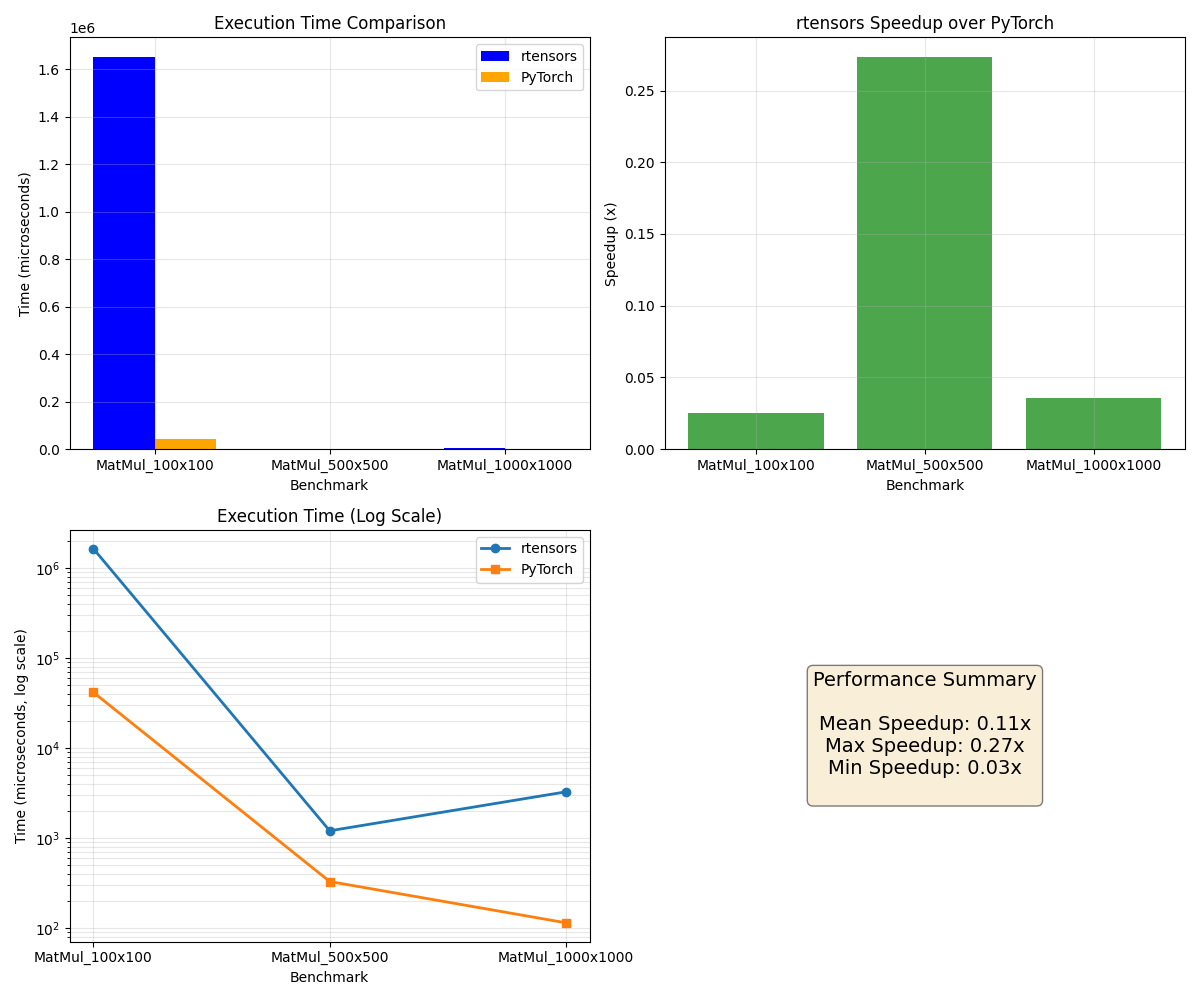
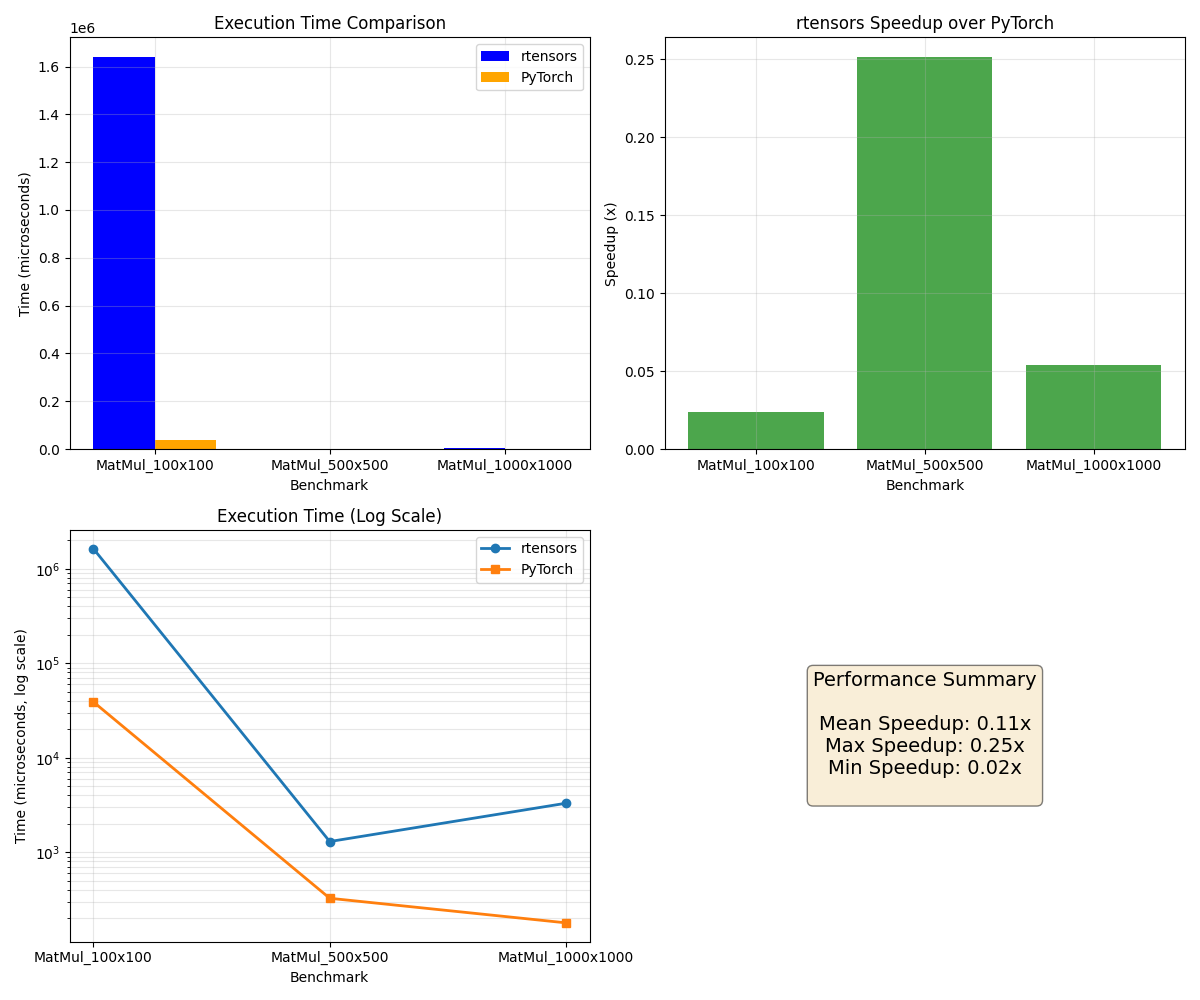
benchmark and interface

diff --git a/libs/benchmark/src/main.rs b/libs/benchmark/src/main.rs
@@ -320,6 +320,7 @@ fn cuda_matmul_benchmark() -> Result<(), pyo3::PyErr> {
         {
             let kwargs = PyDict::new(py);
             kwargs.set_item("device", "cuda")?;
+            kwargs.set_item("dtype", torch.getattr("float32")?)?;
             let a = torch.call_method("ones", ((100, 100),), Some(&kwargs))?;
             let b = torch.call_method("ones", ((100, 100),), Some(&kwargs))?;
             let _result = torch.call_method1("matmul", (a, b))?;
@@ -339,6 +340,7 @@ fn cuda_matmul_benchmark() -> Result<(), pyo3::PyErr> {
         {
             let kwargs = PyDict::new(py);
             kwargs.set_item("device", "cuda")?;
+            kwargs.set_item("dtype", torch.getattr("float32")?)?;
             let a = torch.call_method("ones", ((500, 500),), Some(&kwargs))?;
             let b = torch.call_method("ones", ((500, 500),), Some(&kwargs))?;
             let _result = torch.call_method1("matmul", (a, b))?;
@@ -358,6 +360,7 @@ fn cuda_matmul_benchmark() -> Result<(), pyo3::PyErr> {
         {
             let kwargs = PyDict::new(py);
             kwargs.set_item("device", "cuda")?;
+            kwargs.set_item("dtype", torch.getattr("float32")?)?;
             let a = torch.call_method("ones", ((1000, 1000),), Some(&kwargs))?;
             let b = torch.call_method("ones", ((1000, 1000),), Some(&kwargs))?;
             let _result = torch.call_method1("matmul", (a, b))?;
@@ -373,6 +376,78 @@ fn cuda_matmul_benchmark() -> Result<(), pyo3::PyErr> {
     Ok(())
 }
 
+#[cfg(feature = "cuda")]
+fn cuda_mean_reduction_benchmark() -> Result<(), pyo3::PyErr> {
+    use rtensors::ops::reduction::TotalReductionOp;
+
+    let session = BenchmarkSession::new("cuda_mean_reduction_benchmark");
+    
+    println!("Running benchmarks...\n");
+    
+    // Benchmark 1: MatMul 100x100
+    run_compare!(
+        &session,
+        "MeanReduction_100x100",
+        {
+            let a = CudaTensor::<f64>::ones((100, 100));
+            a.total_mean().unwrap()
+        },
+        |py, torch|,
+        {
+            let kwargs = PyDict::new(py);
+            kwargs.set_item("device", "cuda")?;
+            kwargs.set_item("dtype", torch.getattr("float64")?)?;
+            let a = torch.call_method("ones", ((100, 100),), Some(&kwargs))?;
+            let _result = a.call_method0("mean")?;
+        }
+    )?;
+    
+    // Benchmark 2: MatMul 500x500
+    run_compare!(
+        &session,
+        "MeanReduction_500x500",
+        {
+            let a = CudaTensor::<f64>::ones((500, 500));
+            a.total_mean().unwrap()
+        },
+        |py, torch|,
+        {
+            let kwargs = PyDict::new(py);
+            kwargs.set_item("device", "cuda")?;
+            kwargs.set_item("dtype", torch.getattr("float64")?)?;
+            let a = torch.call_method("ones", ((500, 500),), Some(&kwargs))?;
+            let _result = a.call_method0("mean")?;
+        }
+    )?;
+    
+    // Benchmark 3: MatMul 1000x1000
+    run_compare!(
+        &session,
+        "MeanReduction_1000x1000",
+        {
+            let a = CudaTensor::<f64>::ones((1000, 1000));
+            a.total_mean().unwrap()
+        },
+        |py, torch|,
+        {
+            let kwargs = PyDict::new(py);
+            kwargs.set_item("device", "cuda")?;
+            kwargs.set_item("dtype", torch.getattr("float64")?)?;
+            let a = torch.call_method("ones", ((1000, 1000),), Some(&kwargs))?;
+            let _result = a.call_method0("mean")?;
+        }
+    )?;
+    
+    println!("\nAll benchmarks completed! Results saved to {}", session.csv_path);
+    println!("Generating visualizations...");
+    
+    // Generate visualizations from the session
+    session.generate_visualizations()?;
+
+    Ok(())
+}
+
+
 fn main() -> PyResult<()> {
     // Start a new benchmark session with a unique name
     // Each session creates its own CSV file and visualization outputs
@@ -384,6 +459,8 @@ fn main() -> PyResult<()> {
     cpu_matmul_benchmark()?;
     #[cfg(feature = "cuda")]
     cuda_matmul_benchmark()?;
+    #[cfg(feature = "cuda")]
+    cuda_mean_reduction_benchmark()?;
     
     Ok(())
 }

diff --git a/libs/rtensors/src/ops/reduction/mod.rs b/libs/rtensors/src/ops/reduction/mod.rs
@@ -50,6 +50,12 @@ pub trait TotalReductionOp<T: TensorValue, B: Backend>: Sized + ReductionOp<T, B
     fn total_std(&self, unbiased: bool) -> Result<TensorBase<T, B>, TensorError>{self.std(Idx::Item, unbiased)}
     fn total_norm(&self, norm: NormType) -> Result<TensorBase<T, B>, TensorError>{self.norm(Idx::Item, norm)}
     fn total_logsumexp(&self) -> Result<TensorBase<T, B>, TensorError>{self.logsumexp(Idx::Item)}
+    fn total_l1_norm(&self) -> Result<TensorBase<T, B>, TensorError> {
+        self.norm(Idx::Item, NormType::L1)
+    }
+    fn total_l2_norm(&self) -> Result<TensorBase<T, B>, TensorError> {
+        self.norm(Idx::Item, NormType::L2)
+    }
 }
 
 pub trait ReductionOp<T: TensorValue, B: Backend> : Sized {
@@ -64,6 +70,14 @@ pub trait ReductionOp<T: TensorValue, B: Backend> : Sized {
     fn std(&self, axes: impl Into<Idx>, unbiased: bool) -> Result<TensorBase<T, B>, TensorError>;
     fn norm(&self, axes: impl Into<Idx>, norm: NormType) -> Result<TensorBase<T, B>, TensorError>;
     fn logsumexp(&self, axes: impl Into<Idx>) -> Result<TensorBase<T, B>, TensorError>;
+
+    fn l1_norm(&self, axes: impl Into<Idx>) -> Result<TensorBase<T, B>, TensorError> {
+        self.norm(axes, NormType::L1)
+    }
+
+    fn l2_norm(&self, axes: impl Into<Idx>) -> Result<TensorBase<T, B>, TensorError> {
+        self.norm(axes, NormType::L2)
+    }
 }
 
 impl<T: TensorValue, B: Backend, V> TotalReductionOp<T, B> for V where V: ReductionOp<T, B>{}
